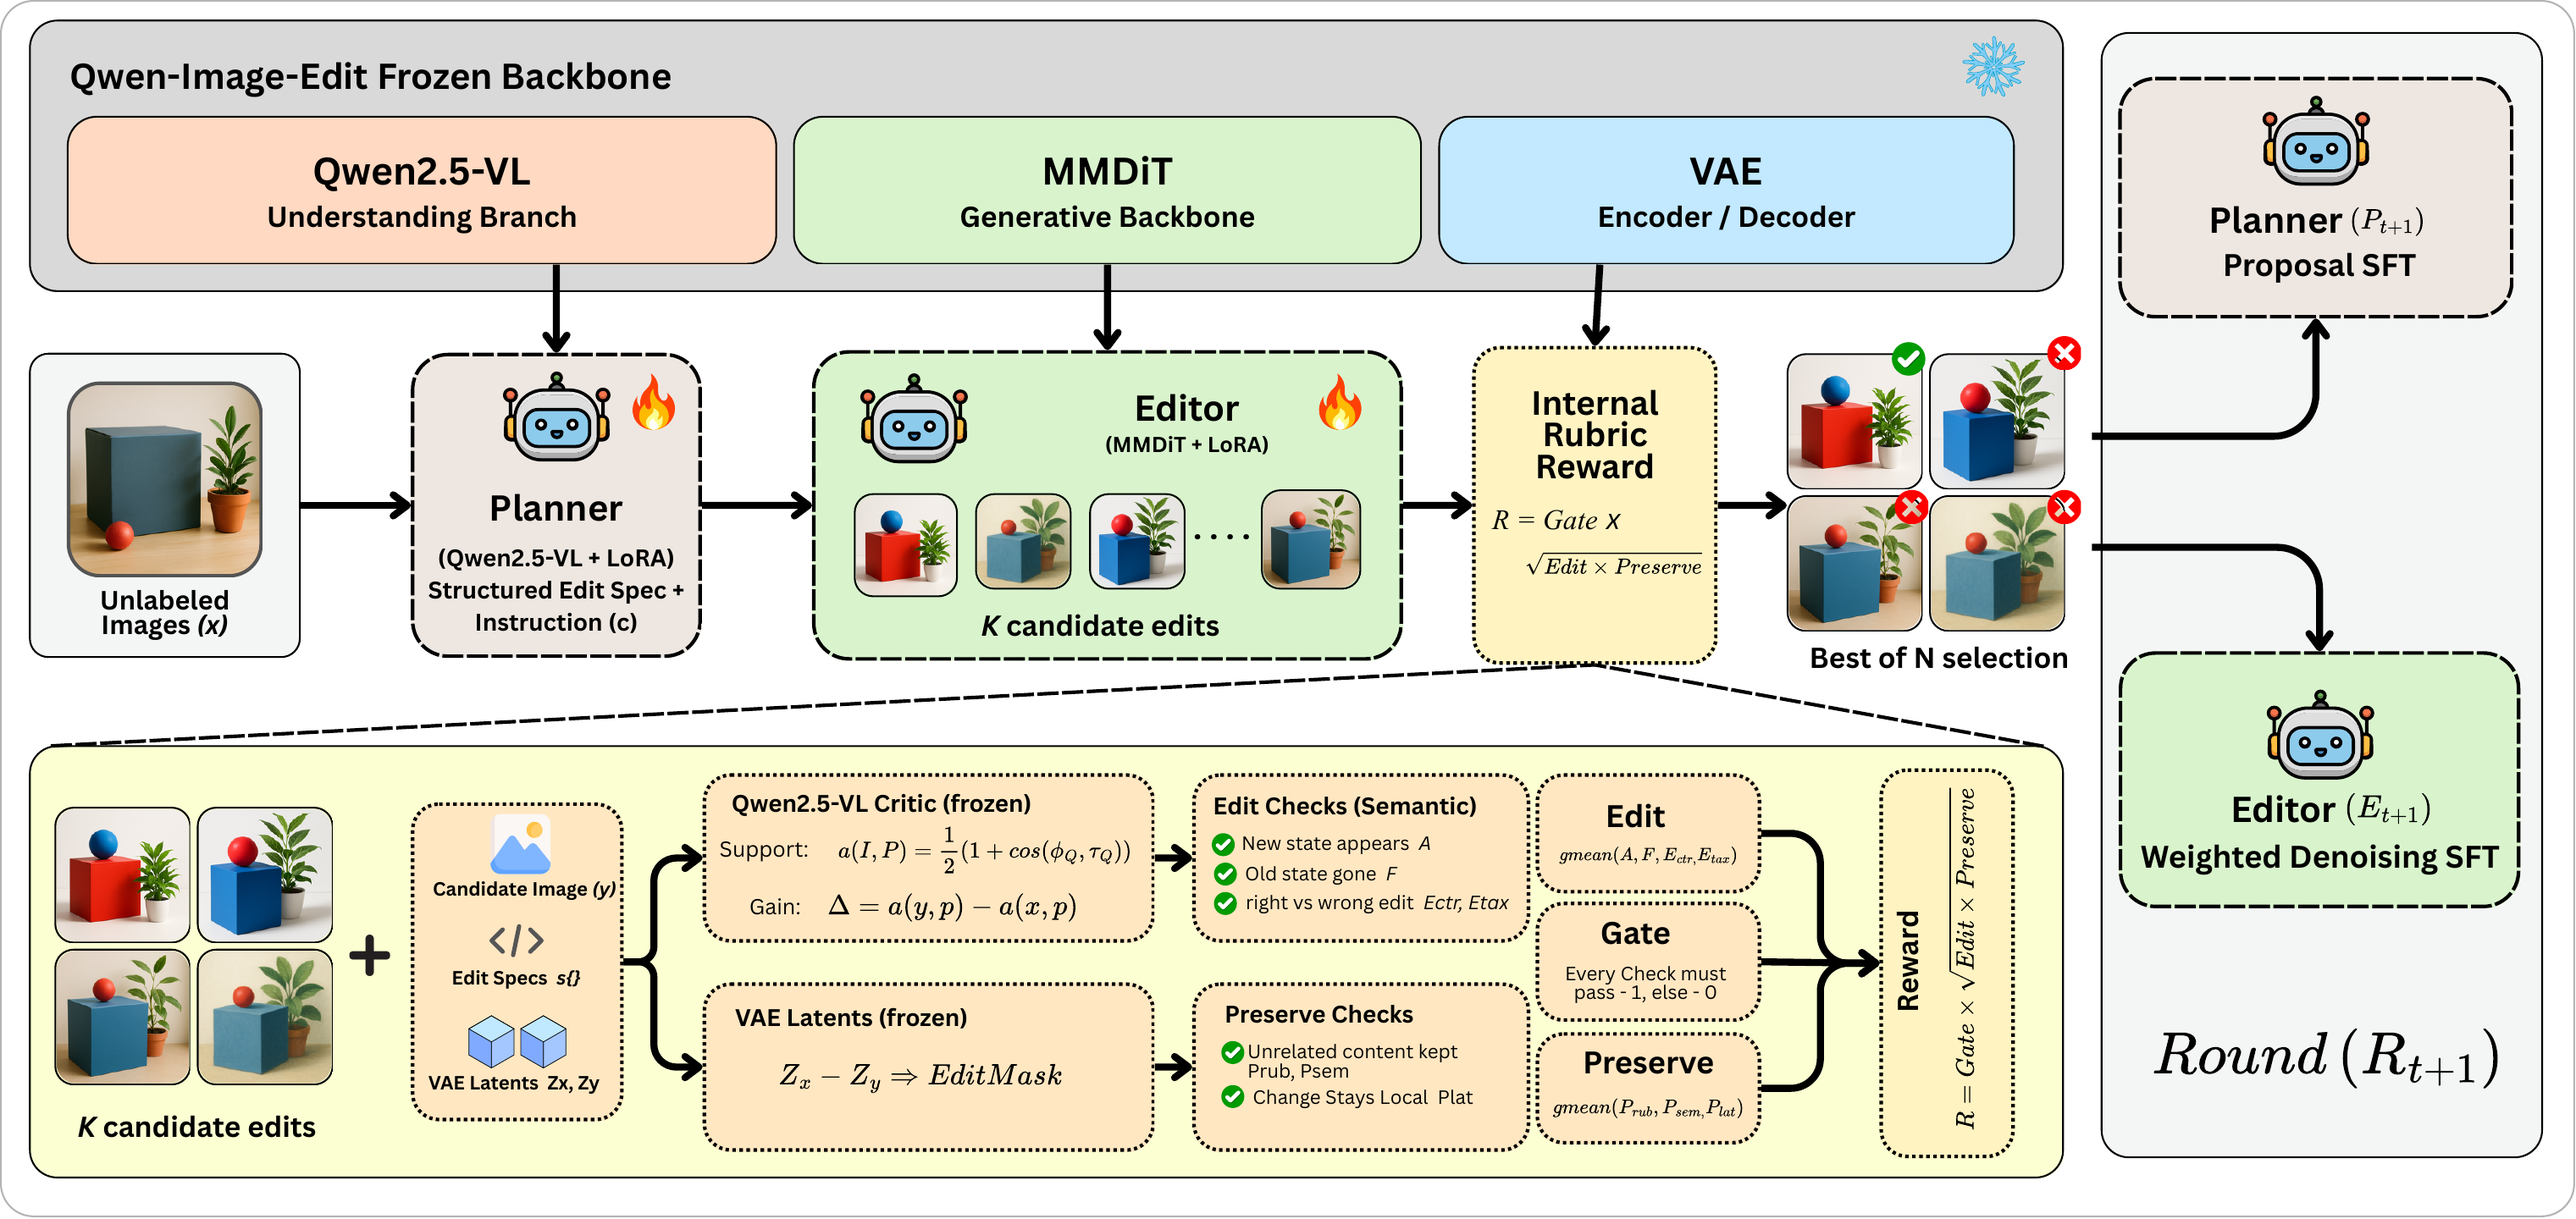
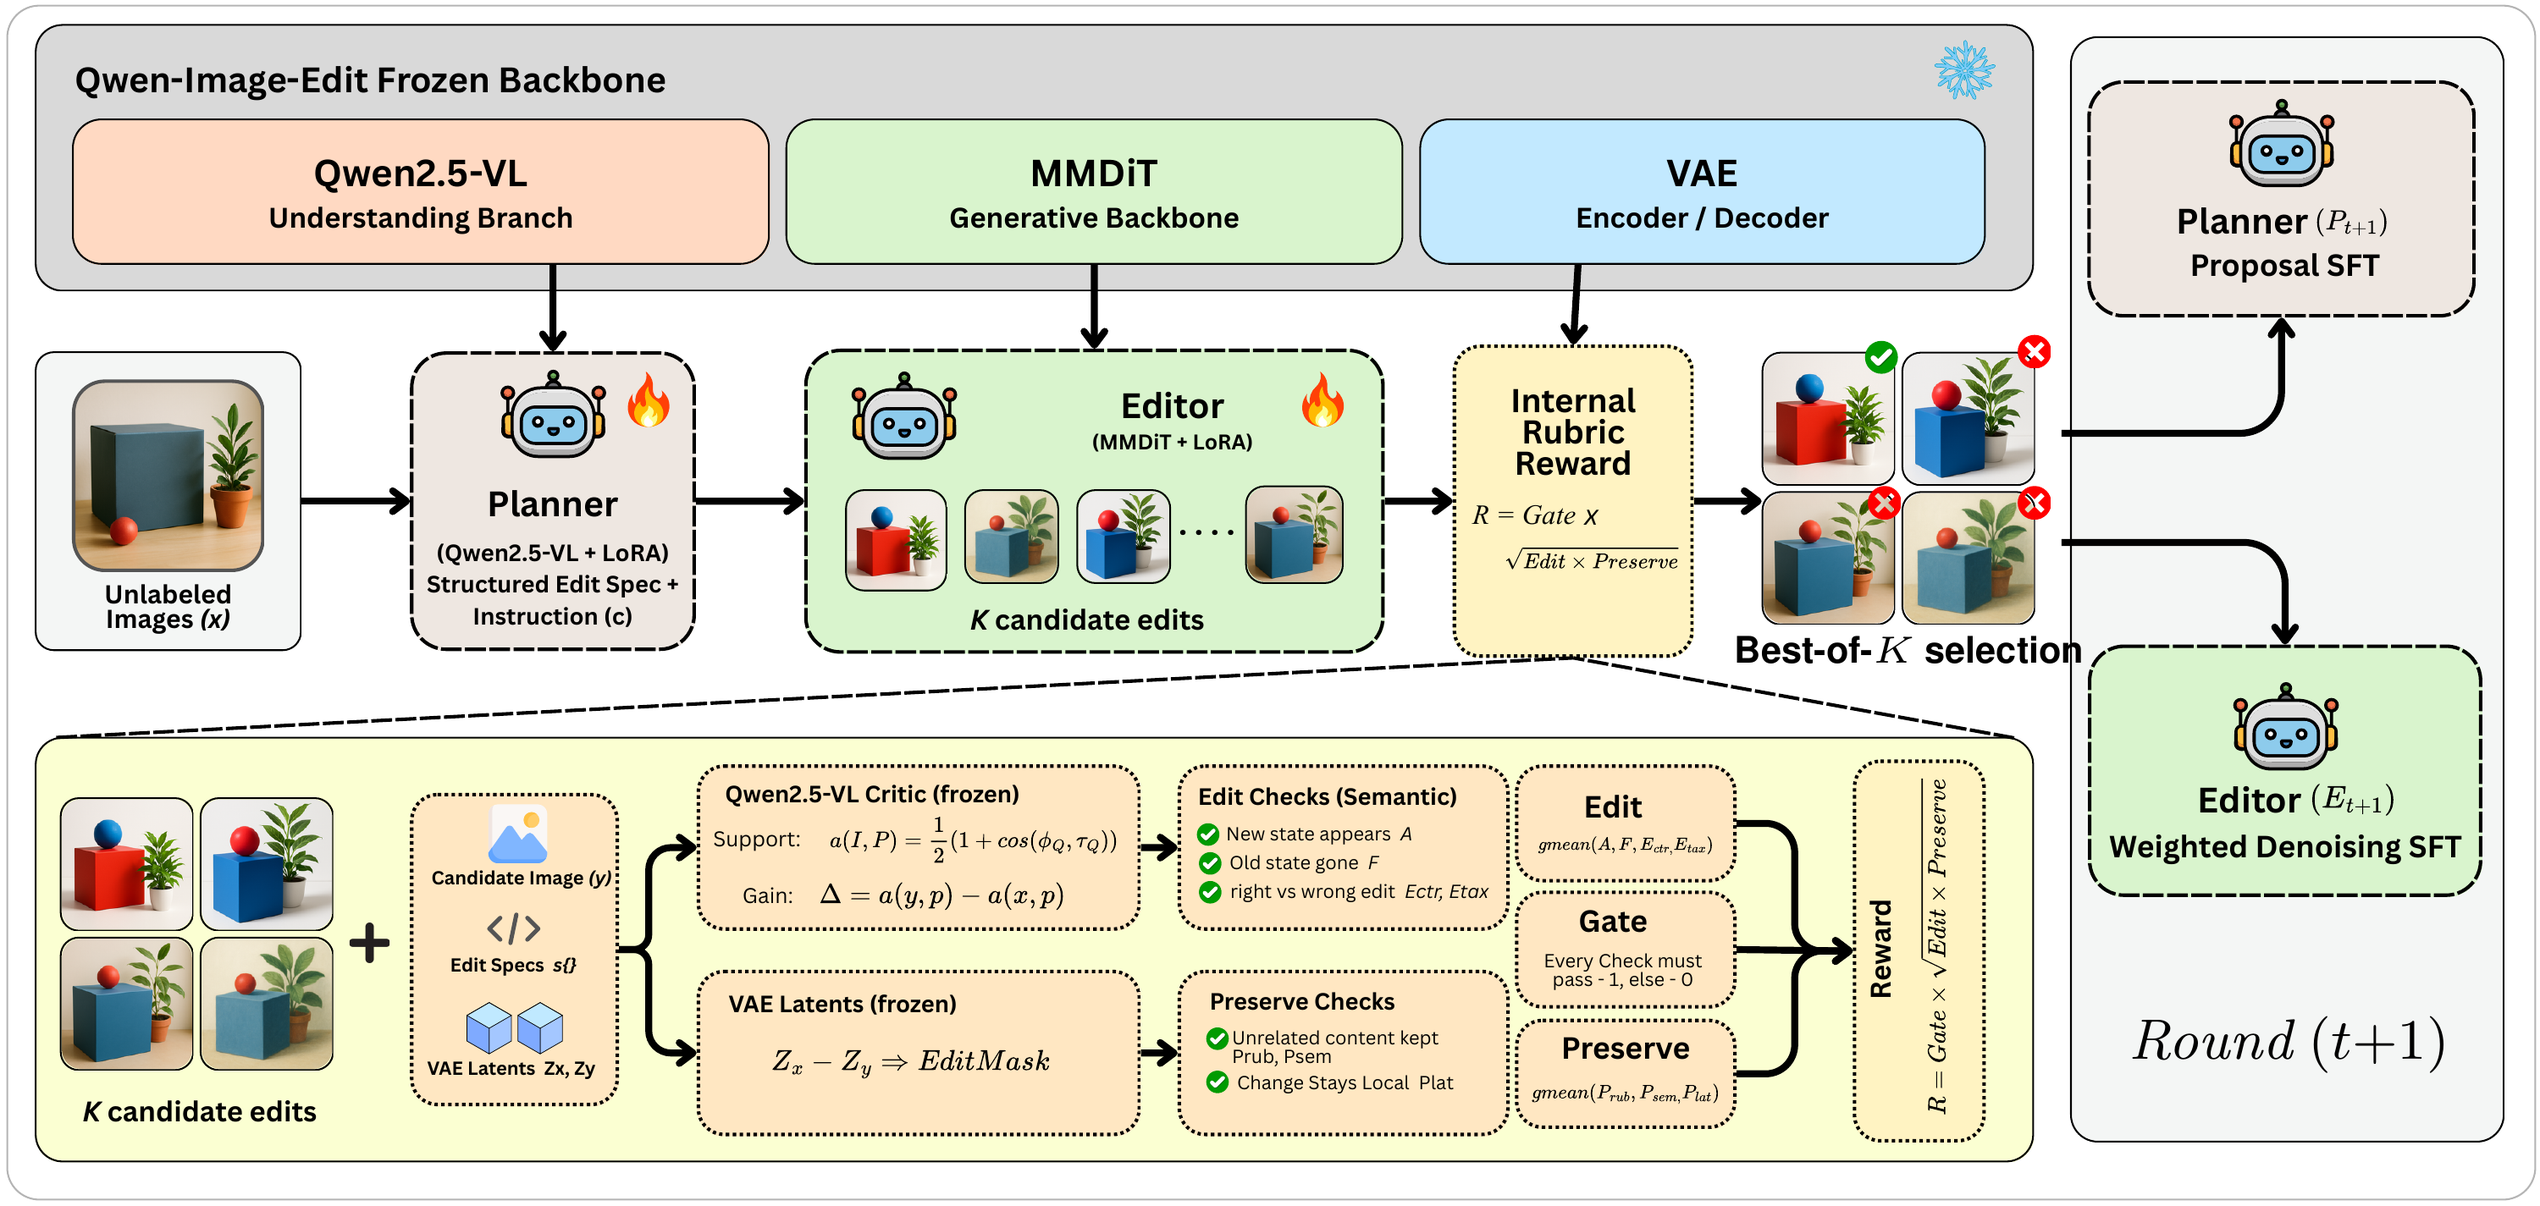
Project page: corrected framework figure labels, absolute social image, cache bump

diff --git a/index.html b/index.html
@@ -9,13 +9,13 @@
     <meta property="og:title" content="Rubric-CEPR">
     <meta property="og:description" content="An image editor that improves from its own verified edits, with no human-edited targets and no external reward model during training.">
     <meta property="og:type" content="website">
-    <meta property="og:image" content="assets/figures/intro.png">
+    <meta property="og:image" content="https://riteshthawkar.github.io/Rubric-CEPR/assets/figures/intro.png">
     <meta name="twitter:card" content="summary_large_image">
     <link rel="preconnect" href="https://fonts.googleapis.com">
     <link rel="preconnect" href="https://fonts.gstatic.com" crossorigin>
     <link rel="stylesheet" href="https://fonts.googleapis.com/css2?family=Plus+Jakarta+Sans:wght@400;500;600;700;800&display=swap">
     <link rel="icon" href="data:,">
-    <link rel="stylesheet" href="styles.css?v=11">
+    <link rel="stylesheet" href="styles.css?v=12">
   </head>
   <body>
     <a class="skip-link" href="#main">Skip to content</a>
@@ -294,7 +294,7 @@
         <div class="section-head centered">
           <p class="kicker">Citation</p>
           <h2>Cite this work.</h2>
-          <p>Copy the BibTeX entry below. Update it with the arXiv identifier once available.</p>
+          <p>Copy the BibTeX entry below.</p>
         </div>
         <div class="copy-row">
           <button class="copy-button" type="button" data-copy-target="bibtex">Copy BibTeX</button>
